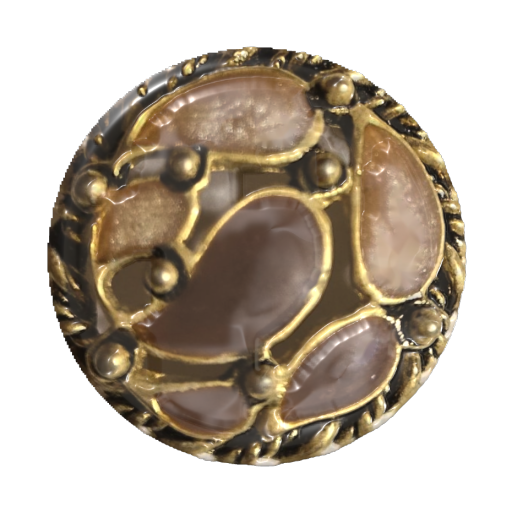
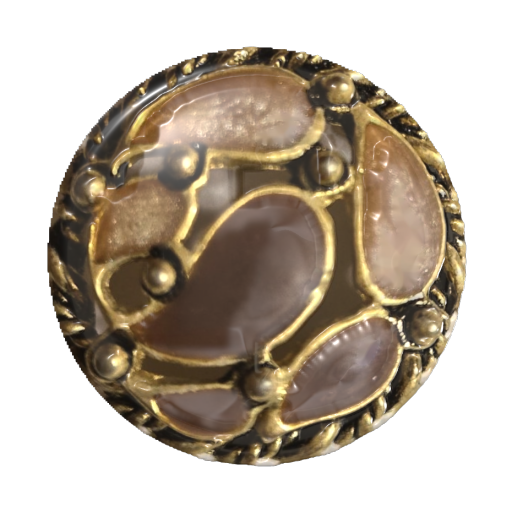
No.014 中央をふっくら盛り上げる
Claude-Session: https://claude.ai/code/session_016FYwPZtfL2VXYvYEvMUPRr

Changed region(s): [[0.125, 0.0938, 0.9062, 0.9062], [0.3125, 0.8125, 0.3438, 0.8438], [0.0938, 0.5, 0.125, 0.5312]]

diff --git a/index.html b/index.html
@@ -83,7 +83,7 @@
       <div class="cap"><span class="no">No. 013</span><span class="name">ココアのサテン</span><span class="sub">つやのあるココア色のふちと、細い黒のラインに囲まれた金茶のサテンの中心</span></div>
     </a></li>
     <li><a class="card" href="buttons/014/">
-      <div class="well"><img src="buttons/014/thumb.png?v=6cccfce7d0" width="512" height="512" alt="ペイズリーの透かし金具のボタン" loading="lazy"></div>
+      <div class="well"><img src="buttons/014/thumb.png?v=49fa4b022b" width="512" height="512" alt="ペイズリーの透かし金具のボタン" loading="lazy"></div>
       <div class="cap"><span class="no">No. 014</span><span class="name">ペイズリーの透かし金具</span><span class="sub">縄目の縁どりの金古美の透かし金具に、パールがかったペイズリーのエナメルと金の粒</span></div>
     </a></li>
   </ul>

diff --git a/buttons/014/model.js b/buttons/014/model.js
@@ -18,7 +18,9 @@ function buildN() {
       .replace('mix(vec3(1.0, 0.80, 0.74), vec3(0.86, 0.88, 1.0)', 'mix(vec3(1.0, 0.86, 0.8), vec3(0.95, 0.9, 0.92)')
       .replace('tint * sh * fb.b * 0.85', 'tint * sh * fb.b * 0.12');
   };
-  const front = new THREE.Mesh(cloverRelief(FACE_H, .0, .14), pm);
+  // the whole face swells up toward the middle
+  const bulge = (x, y) => { const r = Math.min(1, Math.hypot(x, y)); return .16 * Math.pow(1 - r * r, 1.2); };
+  const front = new THREE.Mesh(cloverRelief(FACE_H, .0, .14, bulge), pm);
   front.onBeforeRender = (r, s, cam) => { pm.userData.uMV.value.setFromMatrix4(new THREE.Matrix4().multiplyMatrices(cam.matrixWorldInverse, front.matrixWorld)); };
   grp.add(front);
   grp.add(new THREE.Mesh(rim(1, .03, -.08, 200), new THREE.MeshStandardMaterial({ color: 0x8a6a2a, metalness: 1, roughness: .35, envMapIntensity: 1.2 })));

diff --git a/buttons/014/index.html b/buttons/014/index.html
@@ -47,8 +47,8 @@
   <footer>表と裏の模様は、実物のボタンを撮った写真から切り抜いて貼っています。厚みや足の形は写真を見ながら合わせたもので、だいたいの形です。</footer>
 </div>
 <script src="https://cdn.jsdelivr.net/npm/three@0.147.0/build/three.min.js"></script>
-<script>window.ASSET_V = "3ed3d7d331";</script>
+<script>window.ASSET_V = "831fb81316";</script>
 <script src="../../assets/zukan.js?v=32108acddd"></script>
-<script src="model.js?v=3ed3d7d331"></script>
+<script src="model.js?v=831fb81316"></script>
 </body>
 </html>
